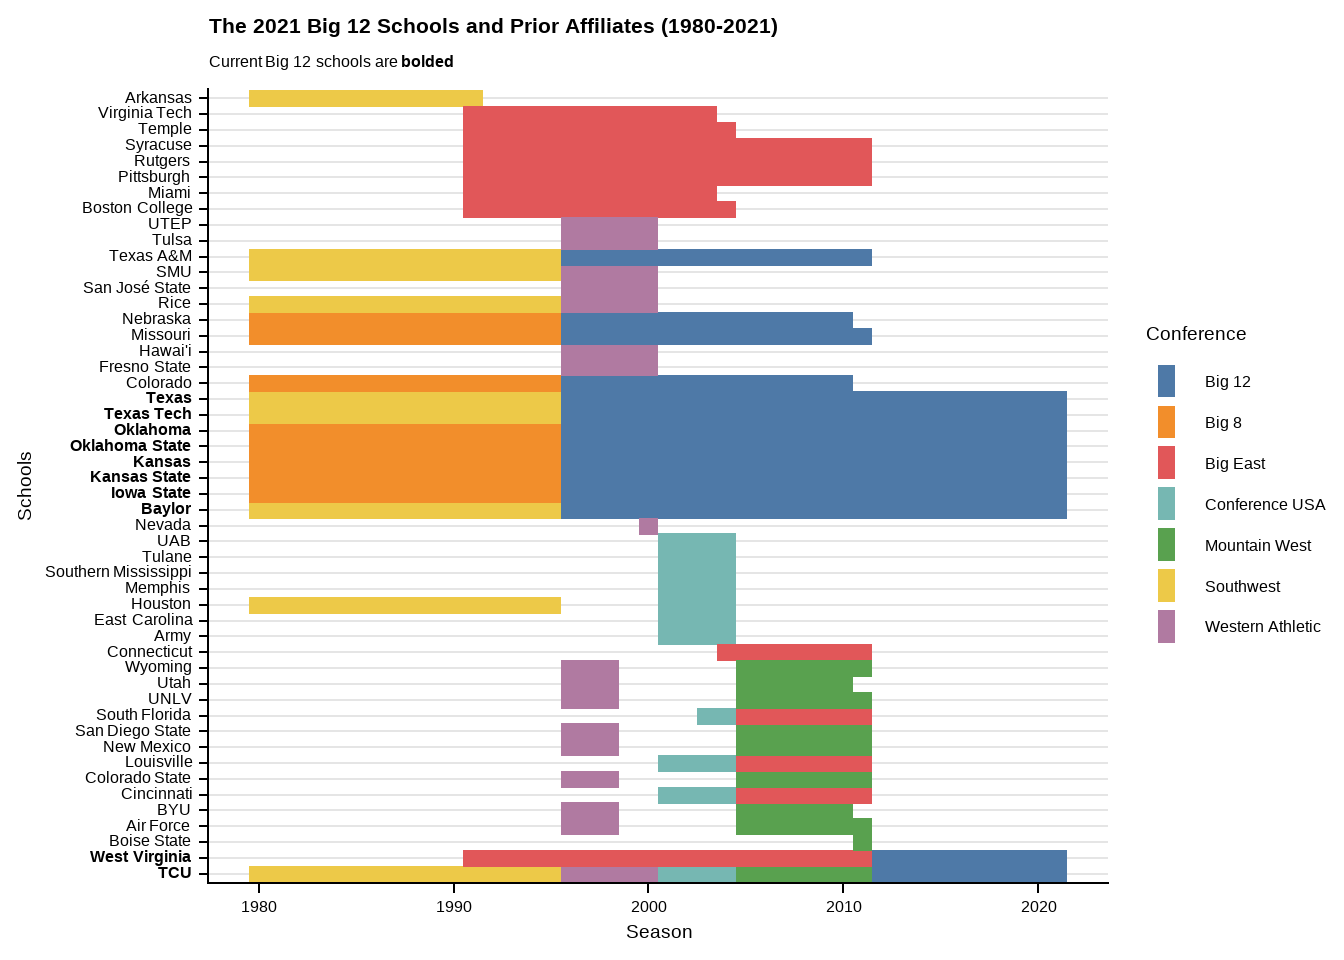
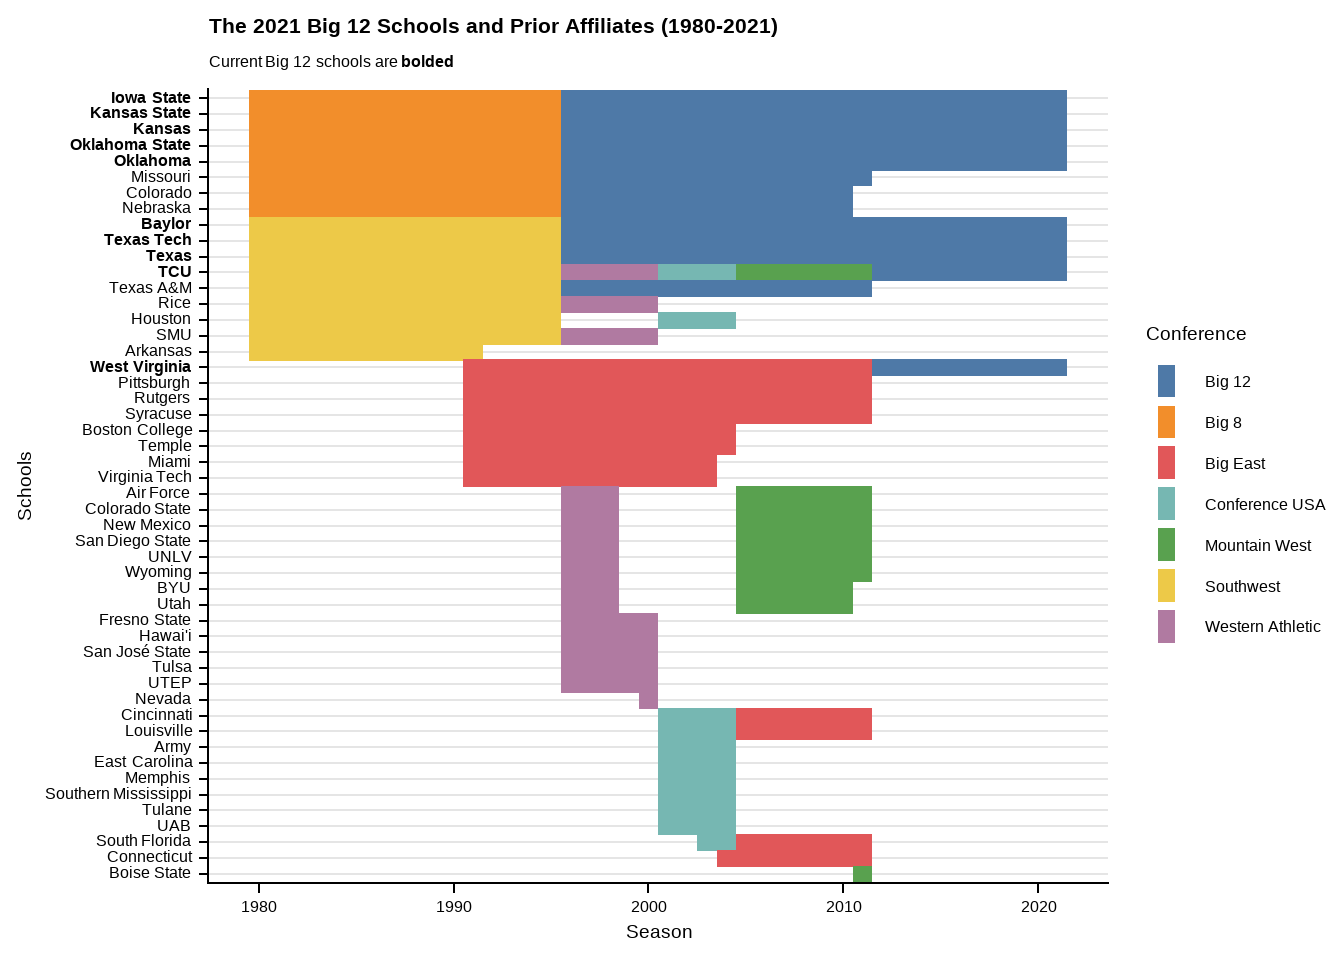
updating order for final graph

diff --git a/content/post/2021-12-29-examining-college-football-conference-realignment-with-ggraph/index.html b/content/post/2021-12-29-examining-college-football-conference-realignment-with-ggraph/index.html
@@ -198,19 +198,24 @@ I like the <a href="https://en.wikipedia.org/wiki/Big_12_Conference#Former_membe
   mutate(school = if_else(school %in% current_big_12, paste0(&quot;**&quot;,school,&quot;**&quot;), school)) %&gt;%
   group_by(school, years, conference) %&gt;% 
   summarize(start = min(season)-.5, end = max(season)+.5) %&gt;%
-  mutate(first_conference = max(if_else(start == min(start), conference, NA_character_), na.rm = T)) %&gt;% 
-  ggplot(aes(x = fct_reorder(school, -start, min))) + 
-    geom_linerange(aes(ymin = start, ymax = end, color = conference), size = 3) + 
-    labs(x = &quot;Schools&quot;, y = &quot;Season&quot;, color = &quot;Conference&quot;,
-         title = &quot;The 2021 Big 12 Schools and Prior Affiliates (1980-2021)&quot;,
-         subtitle = &quot;Current Big 12 schools are **bolded**&quot;) + 
-    coord_flip() + 
-    ggthemes::scale_color_tableau() + 
-    cowplot::theme_cowplot() + 
-    theme(
-      axis.text.y = element_markdown(),
-      plot.subtitle = element_markdown(),
-      panel.grid.major.y = element_line(color = &#39;grey90&#39;)
-    )</code></pre>
+  mutate(first_conference = max(if_else(start == min(start), conference, NA_character_), na.rm = T),
+         first_start = max(if_else(start == min(start), start, NA_real_), na.rm = T),
+         n_conferences = n_distinct(conference)) %&gt;%
+  arrange(first_start, first_conference, -years, n_conferences, school) %&gt;% 
+  ungroup() %&gt;% 
+  mutate(ord = row_number()) %&gt;% 
+  ggplot(aes(x = fct_reorder(school, ord, min, .desc = T))) + 
+  geom_linerange(aes(ymin = start, ymax = end, color = conference), size = 3) + 
+  labs(x = &quot;Schools&quot;, y = &quot;Season&quot;, color = &quot;Conference&quot;,
+       title = &quot;The 2021 Big 12 Schools and Prior Affiliates (1980-2021)&quot;,
+       subtitle = &quot;Current Big 12 schools are **bolded**&quot;) + 
+  coord_flip() + 
+  ggthemes::scale_color_tableau() + 
+  cowplot::theme_cowplot() + 
+  theme(
+    axis.text.y = element_markdown(),
+    plot.subtitle = element_markdown(),
+    panel.grid.major.y = element_line(color = &#39;grey90&#39;)
+  )</code></pre>
 <p><img src="{{< blogdown/postref >}}index_files/figure-html/school_migration-1.png" width="100%" /></p>
 </div>
